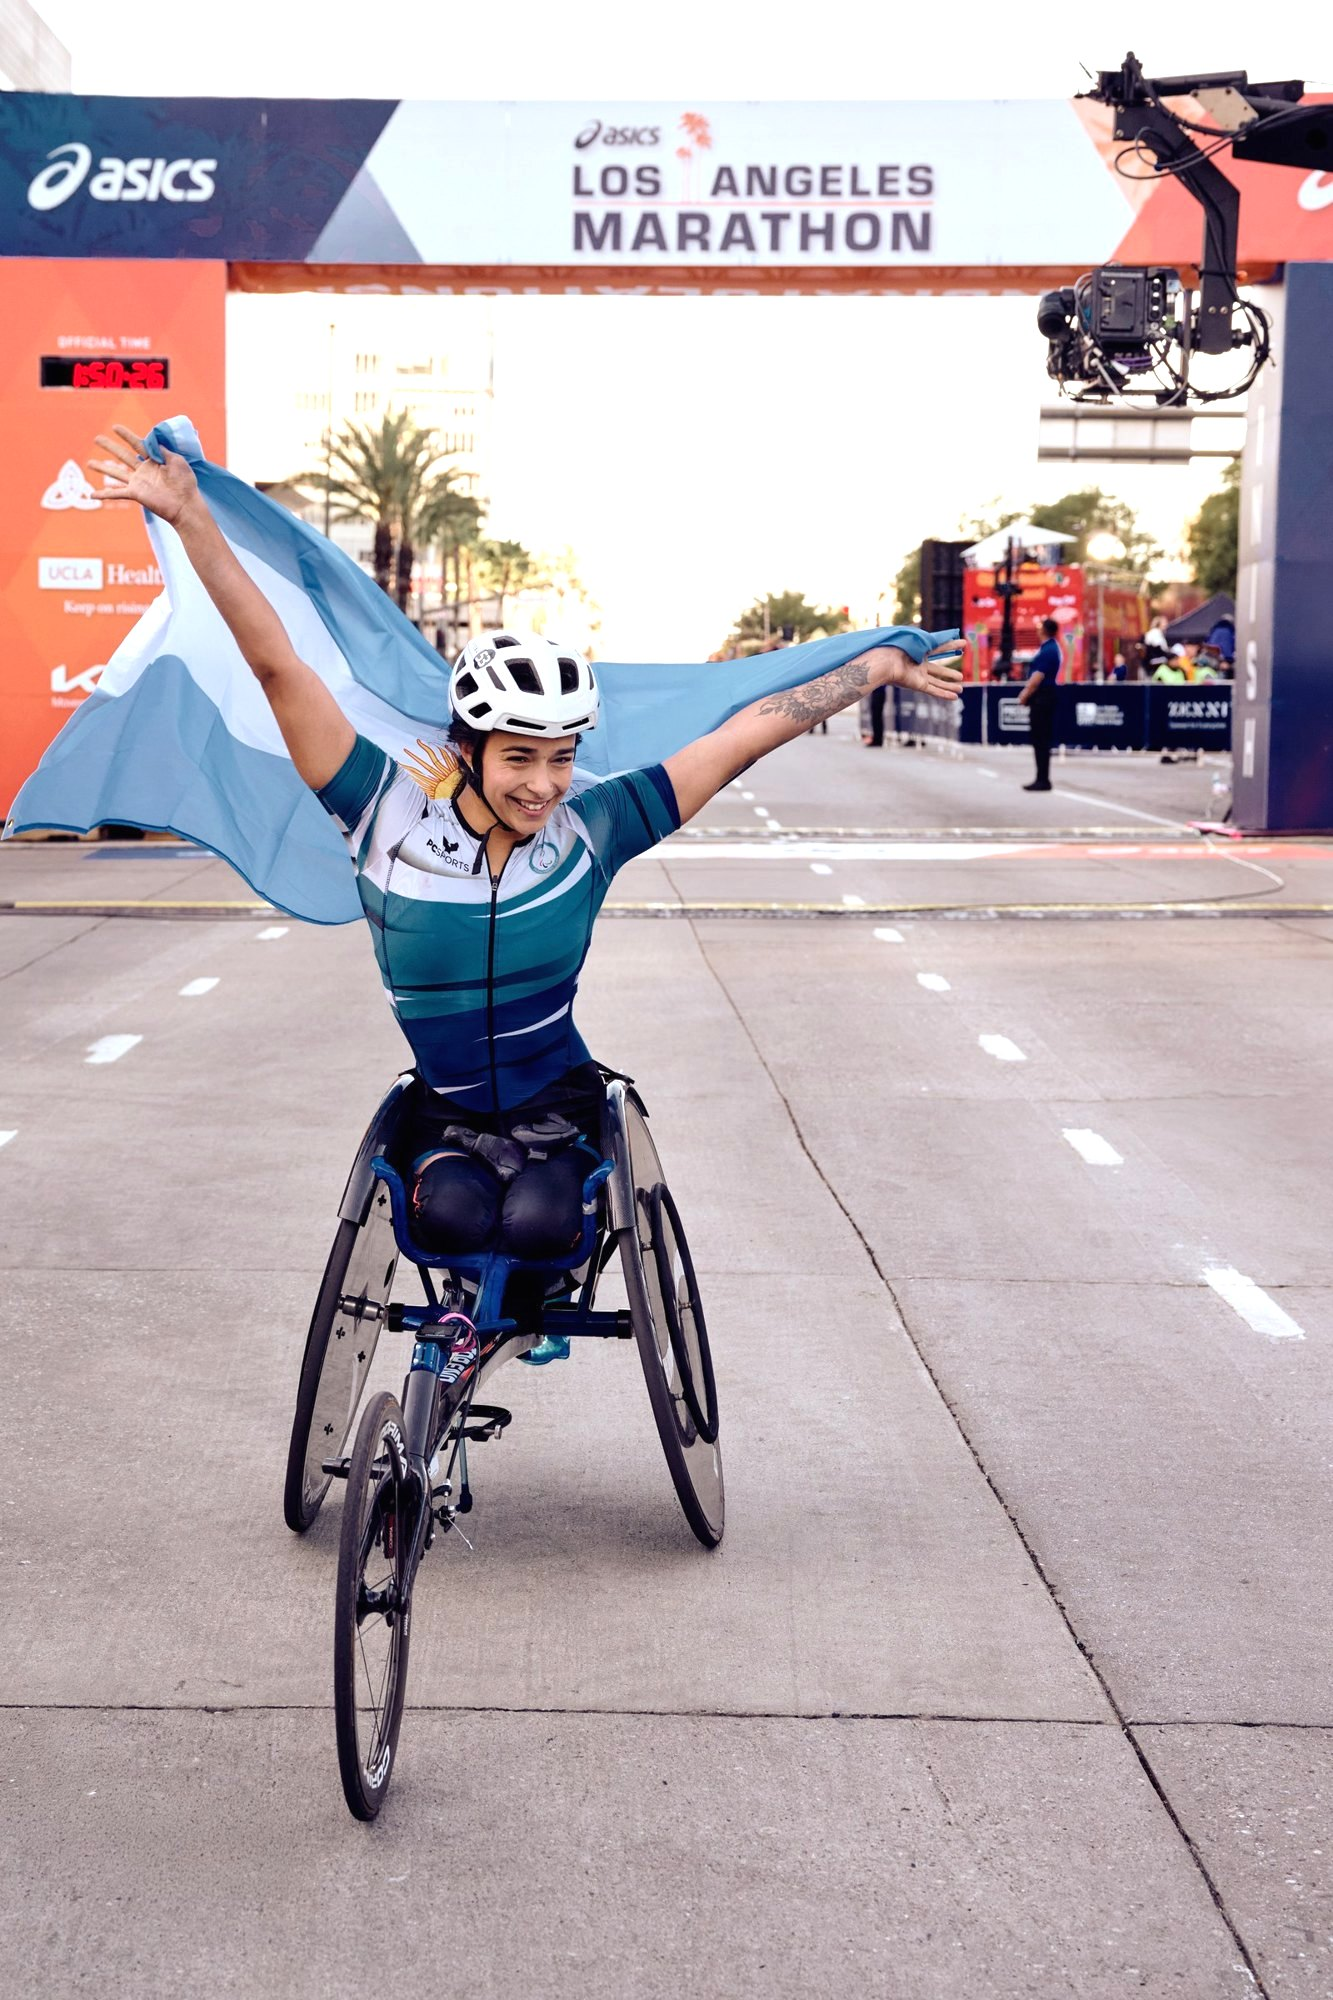
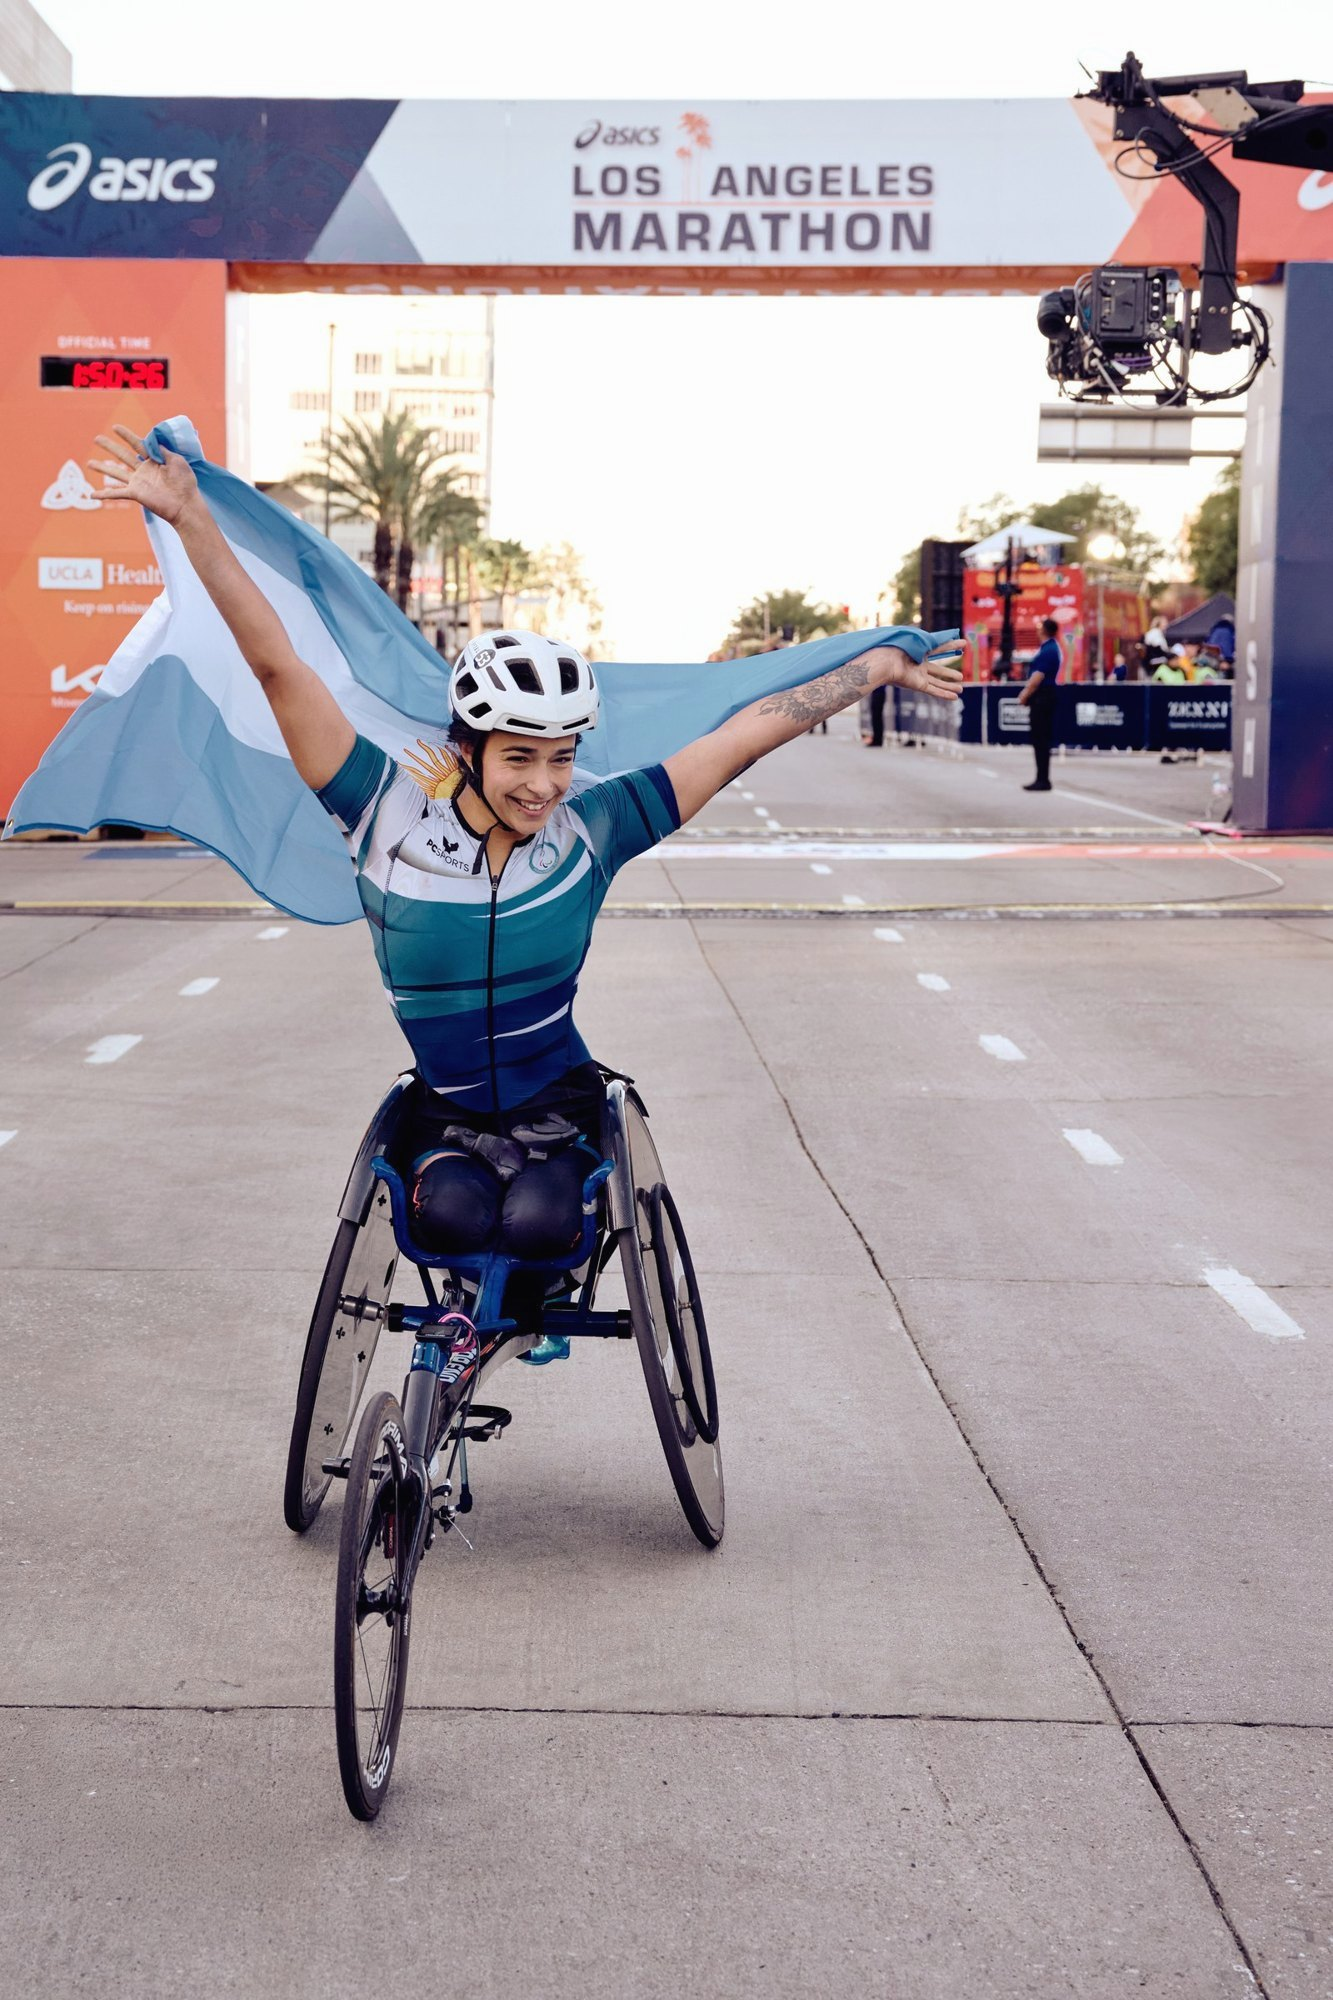
LA Marathon: cover tune
Claude-Session: https://claude.ai/code/session_012U18n2jx8i57thyH5Nwtnb

diff --git a/features/la-marathon/index.html b/features/la-marathon/index.html
@@ -250,7 +250,7 @@ footer p span{color:#c2367f}
 /* Tommy: cover image left, verse and credits on the orange to its right */
 .hero.cover.tw .wrap{display:grid;grid-template-columns:minmax(0,1fr) minmax(0,1.15fr);align-items:center;gap:clamp(24px,4vw,64px);padding:0 0 0 clamp(24px,5vw,72px)}.hero.cover.tw .side{color:#fff;order:-1}
 .hero.cover.tw .ph{height:auto;aspect-ratio:auto;min-height:0;display:block}.hero.cover.tw .ph img{width:100%;height:auto;max-width:none;display:block}
-.hero.cover.tw{--txt-scale:1.09;--vs:3.45rem;--vlh:1.02;--vls:0.05em;--vgap:30px;--rs:1.7rem;--cgap:40px;--credits-size:1.55rem;--sidew:76%}
+.hero.cover.tw{--txt-scale:0.94;--vs:4.55rem;--vlh:0.86;--vls:-0.05em;--vgap:56px;--rs:2.15rem;--cgap:45px;--credits-size:1.6rem;--sidew:76%}
 .hero.cover.tw .side{zoom:var(--txt-scale);width:var(--sidew);display:flex;flex-direction:column;align-items:flex-start;text-align:left;color:#000}
 .hero.cover.tw .verse{font-family:"Anton",sans-serif;font-weight:400;font-size:min(var(--vs),5.2vw);line-height:var(--vlh);letter-spacing:var(--vls);margin:0;color:#fff;text-wrap:balance}
 .hero.cover.tw .ref{color:#000!important;font-family:"Anton",sans-serif;font-weight:400;font-size:min(var(--rs),3.2vw);line-height:1;margin:var(--vgap) 0 0;color:#fff;letter-spacing:.02em}
@@ -311,8 +311,8 @@ footer p span{color:#c2367f}
 
   <section class="hero full cover tw flip">
     <div class="wrap">
-      <div class="ph"><img src="/features/la-marathon/img/hero.jpg" alt="A wheelchair racer celebrating at the finish line with the Argentine flag, 2026 ASICS Los Angeles Marathon" style="object-position:36% 78%;transform-origin:36% 78%;transform:translate(0px, 75px) scale(1.18);clip-path:inset(0% 1.5% 0% 0%)"></div>
-      <div class="side">
+      <div class="ph"><img src="/features/la-marathon/img/hero.jpg" alt="A wheelchair racer celebrating at the finish line with the Argentine flag, 2026 ASICS Los Angeles Marathon" style="object-position:36% 78%;transform-origin:36% 78%;transform:translate(66px, 75px) scale(1.18);clip-path:inset(0% 1.5% 0% 0%)"></div>
+      <div class="side" style="position:relative;top:-23px;left:113px">
         <p class="verse">The <em>Los Angeles</em> Marathon is more than a race…</p>
         <p class="ref">Race day · Century City · March 8, 2026</p>
         <div class="credits"><span><b>Photography &amp; Design</b> Per Bernal</span></div>
